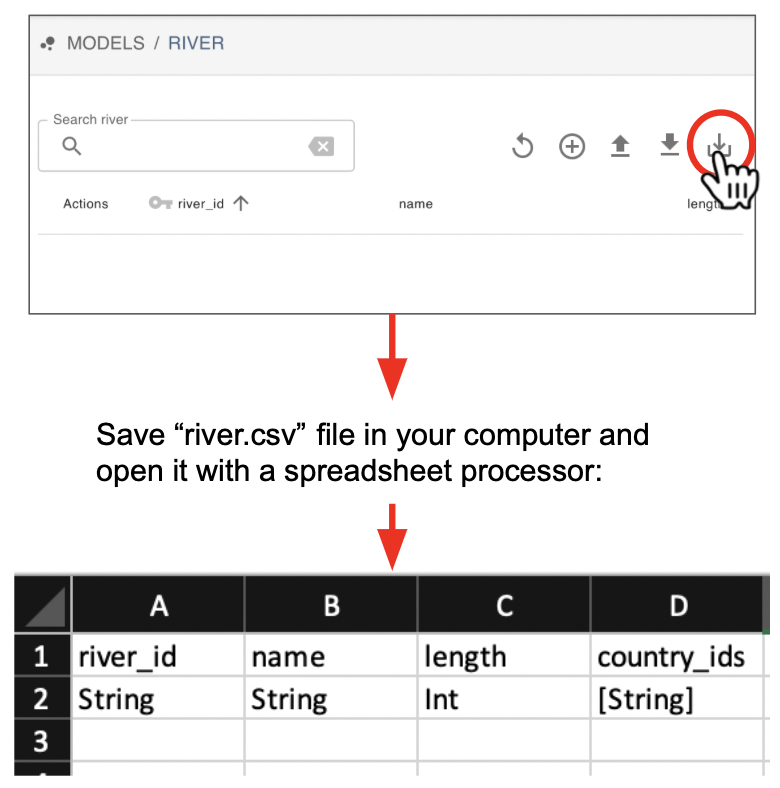
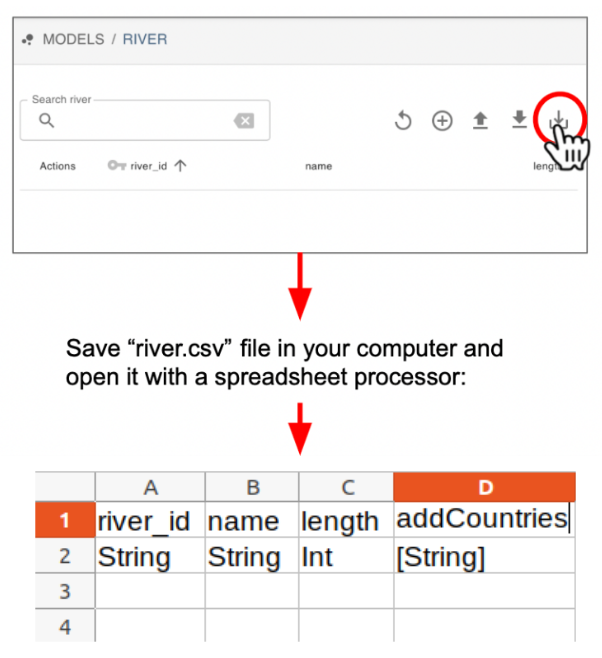
update bulkCreation doc

diff --git a/SPA_howto.md b/SPA_howto.md
@@ -143,9 +143,11 @@ Adding single records one by one is useful sometimes, but many users want to add
 
 The .xlsx or .csv data file is expected to follow these requirements:
 
-1. Column names in the first row must correspond to model attributes (i.e. column names in the Zendro main table for that model)
+1. Column names in the first row must correspond to model attributes (i.e. column names in the Zendro main table for that model). For associations, corresponding column name should be `add<associationName>`, e.g. `addCountries` for assciationName `countries`.
 2. Empty values should be represented as `NULL`.
-3. Date and time formats must follow the [RFC 3339](https://tools.ietf.org/html/rfc3339) standard.
+3. All fields should be quoted by `"`. However, if field delimiter and array delimiter do not occur in fields with String type, namely characters could be split without ambiguity, then no quotes are necessary. For example, if the field delimiter is `,` and one String field is like `Zendro, excellent!`, then without the quotation mark, this field will be split as two fields. So in such case these String fields must be quoted.
+4. Default configuration: LIMIT_RECORDS=10000, RECORD_DELIMITER="\n", FIELD_DELIMITER=",", ARRAY_DELIMITER=";". They can be changed in the config file for environment variables.
+5. Date and time formats must follow the [RFC 3339](https://tools.ietf.org/html/rfc3339) standard.
 
 Additionally, if you are uploading your data from a csv file:
 
@@ -154,7 +156,7 @@ Additionally, if you are uploading your data from a csv file:
 
 In order to get the field names right and check what type each one is (e.g. integer, character, etc), you can **Download the model template** by clicking in the "light down arrow" at the top right panel of the main data model table. You will be prompted to download a csv file named after the table you are downloading, for example "river". You can open this file in your favourite spreadsheet processor (e.g. Excel).
 
-It will have the the column names you need in the first row, and the data type in the second. Notice that if your data model has associations, the ids ("key") associating records will be shown as columns too. For example because the model "river" is associated with one or more "countries" you have to provide the `country_ids` in the last column. If we fill this example with a list of Mexican rivers, this means that the `country_ids` field should include Mexico's country id, which is "MX" according to the "country" data model table.
+It will have the the column names you need in the first row, and the data type in the second. Notice that if your data model has associations, the foreign keys of associating records will be shown as columns too. For example because the model "river" is associated with one or more "countries" you have to provide the `addCountries` in the last column. If we fill this example with a list of Mexican rivers, this means that the `addCountries` field should include Mexico's country id, which is "MX" according to the "country" data model table.
 
 ![SPA_csvtemplate.png](figures/SPA_csvtemplate.png)
 
@@ -180,10 +182,10 @@ river_id,name,length,country_ids
 
 Save it as an .csv file. It should be ready to upload it to Zendro!
 
-**Note:** you can also Save as csv file from Excel, but make sure you add the `"` if any of your strings (text) have `,` within them.
+**Note:** you can also save as csv file from Excel, but make sure you add the `"` if any of your strings (text) have `,` within them.
 
 
-To finally upload your data to Zendro click on Import data ("bold top arrow" icon) of the top right menu, select your file and click **Upload**:
+To finally upload your data to Zendro click on `Import data` ("bold top arrow" icon) of the top right menu, select your file and click **Upload**:
 
 ![SPA_addExcel.png](figures/SPA_addExcel.png)
 
@@ -194,7 +196,7 @@ If there are errors you will be told what's the problem. Check your data and try
 
 ## Download data
 
-To download data, click on the Download data button (bold down arrow). You will be prompted to select a directory and file name where to save the data. 
+To download data, click on the `Download data` button (bold down arrow). You will be prompted to select a directory and file name where to save the data. 
 
 ![SPA_download.png](figures/SPA_download.png)
 
